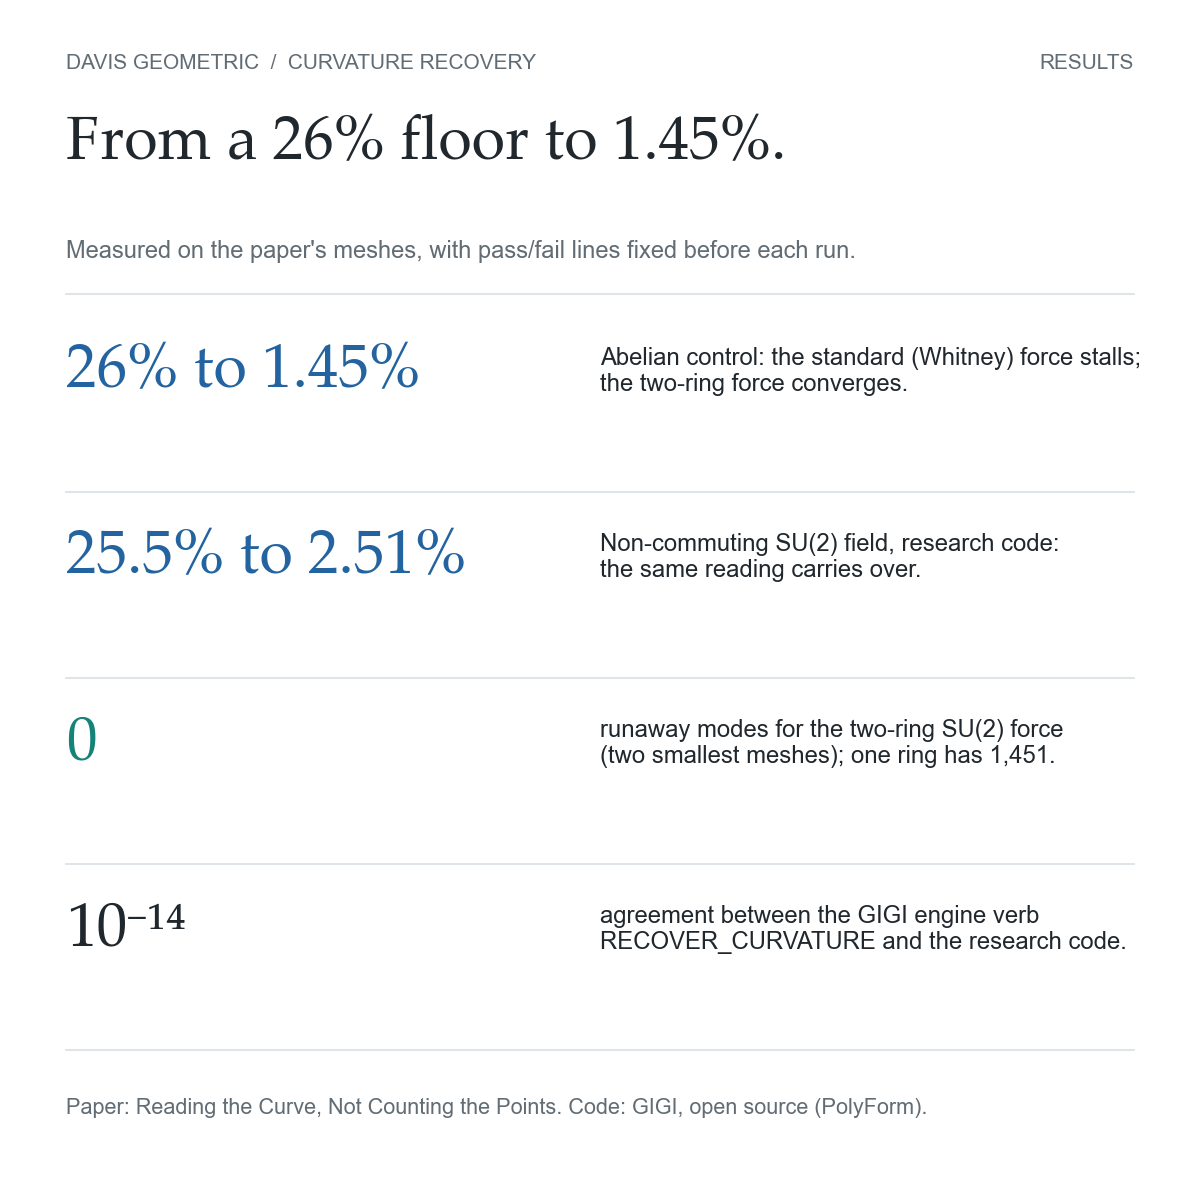
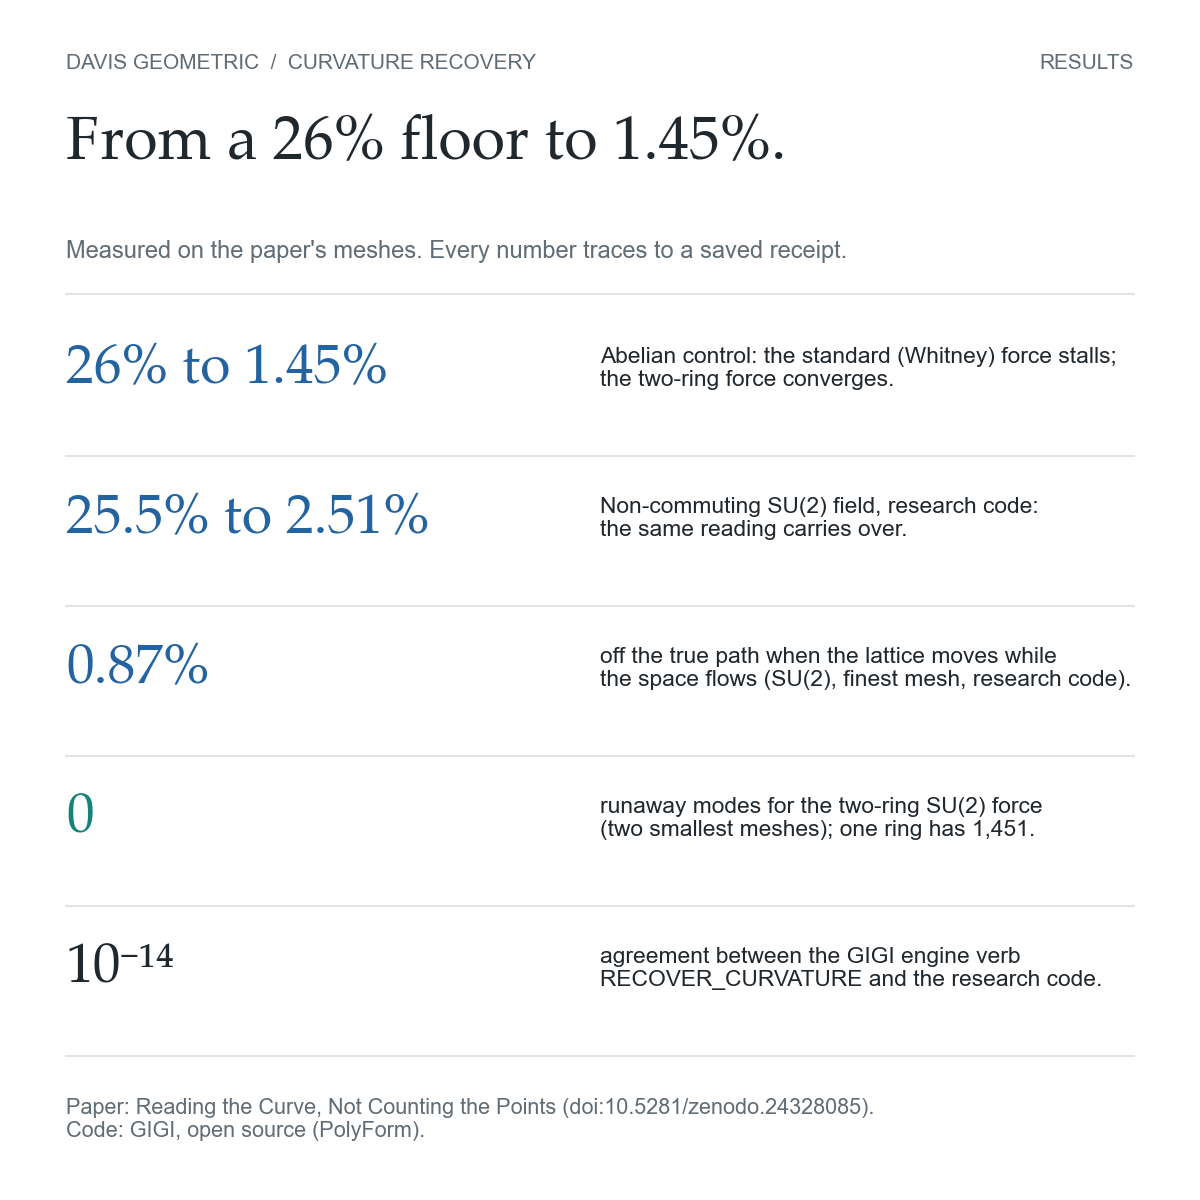
Social cards: the lattice in time, the new evidence, both DOIs
New card 06 (the space flows, the lattice follows: R at n = 1, 2, 3 with
the frozen control, and the 10.6% note). Results card adds 0.87% and drops
'pass/fail lines fixed before each run' for 'every number traces to a
saved receipt'. DOIs on the results and Three Ways cards. Post text
rewritten for version 2, with the honest notes and the review described
as review agents, not peer review.

diff --git a/docs/papers/two-ring-pg/social/make_linkedin_cards.py b/docs/papers/two-ring-pg/social/make_linkedin_cards.py
@@ -89,20 +89,53 @@ def card_results():
     fig = plt.figure(figsize=(6, 6))
     mast(fig, "RESULTS")
     headline(fig, .905, "From a 26% floor to 1.45%.")
-    M.text(fig, .055, .80, "Measured on the paper's meshes, with pass/fail lines fixed before each run.", 8.5, MUTED)
+    M.text(fig, .055, .80, "Measured on the paper's meshes. Every number traces to a saved receipt.", 8.5, MUTED)
     M.rule(fig, .755, .055, .945)
     rows = [("26% to 1.45%", "Abelian control: the standard (Whitney) force stalls;\nthe two-ring force converges.", BLUE),
             ("25.5% to 2.51%", "Non-commuting SU(2) field, research code:\nthe same reading carries over.", BLUE),
+            ("0.87%", "off the true path when the lattice moves while\nthe space flows (SU(2), finest mesh, research code).", BLUE),
             ("0", "runaway modes for the two-ring SU(2) force\n(two smallest meshes); one ring has 1,451.", TEAL),
             ("10⁻¹⁴", "agreement between the GIGI engine verb\nRECOVER_CURVATURE and the research code.", INK)]
     y = .715
     for num, cap, col in rows:
-        M.text(fig, .055, y, num, 22, color=col, fontfamily=SERIF)
-        M.text(fig, .50, y - .004, cap, 8.6, INK)
-        y -= .155
+        M.text(fig, .055, y, num, 20, color=col, fontfamily=SERIF)
+        M.text(fig, .50, y - .004, cap, 8.2, INK)
+        y -= .125
         M.rule(fig, y + .03, .055, .945)
-    M.text(fig, .055, .085, "Paper: Reading the Curve, Not Counting the Points. Code: GIGI, open source (PolyForm).", 7.8, MUTED)
+    M.text(fig, .055, .085, "Paper: Reading the Curve, Not Counting the Points (doi:10.5281/zenodo.24328085).\n"
+           "Code: GIGI, open source (PolyForm).", 7.8, MUTED)
     save(fig, "03_results.png")
+
+
+def card_time():
+    """The SU(2) flow in time: R at n = 1, 2, 3 for two rings, native and the frozen control."""
+    flow = json.loads((HERE.parent / "data" / "su2_flow.json").read_text())
+    fig = plt.figure(figsize=(6, 6))
+    mast(fig, "LETTING THE LATTICE MOVE")
+    headline(fig, .905, "The space flows. The lattice\nfollows it.")
+    M.text(fig, .055, .755, "The links move under the force while the metric underneath follows its Ricci flow;\n"
+           "at the end they are compared with where the true field went.", 8.2, MUTED)
+    ax = fig.add_axes([.12, .30, .50, .38])
+    n = np.array([1, 2, 3])
+    series = [("pg", "two rings", BLUE, "o", "-", 2.4), ("native", "standard", GREY, "s", "-", 1.4),
+              ("pg_fixed", "background frozen", COPPER, "v", (0, (4, 2)), 1.6)]
+    for key, lab, col, mk, ls, lw in series:
+        R = np.array([100 * flow[f"{key}_n{k}"]["R"][-1] for k in n])
+        ax.plot(n, R, color=col, marker=mk, ls=ls, lw=lw, ms=5, label=lab)
+    ax.set_yscale("log"); ax.set_xticks(n); ax.set_xticklabels(["n = 1", "n = 2", "n = 3"])
+    ax.set_yticks([1, 2, 5, 10, 20]); ax.set_yticklabels(["1%", "2%", "5%", "10%", "20%"]); ax.minorticks_off()
+    ax.set_ylim(.6, 22); ax.set_xlim(.8, 3.2)
+    for s_ in ("top", "right"):
+        ax.spines[s_].set_visible(False)
+    ax.tick_params(labelsize=7.5, colors=MUTED)
+    ax.legend(frameon=False, fontsize=7.5, loc="upper right")
+    big(fig, .68, .62, "0.87%", "two rings, finest mesh:\noff the true path", BLUE, size=26)
+    big(fig, .68, .43, "8%", "background frozen:\nstays stuck, as it should", COPPER, size=26)
+    M.rule(fig, .215, .055, .945)
+    M.text(fig, .055, .19, "13.8%, 1.76%, 0.87% at n = 1, 2, 3; the standard force 7.0%, 2.21%, 1.07%. Against only\n"
+           "the motion the moving space causes, the two-ring error is 10.6% at n = 3: falling, not solved.", 8, INK)
+    M.text(fig, .055, .085, "Research code, one metric, one short window. Paper: Reading the Curve, Section 9.3.", 7.8, MUTED)
+    save(fig, "06_letting_the_lattice_move.png")
 
 
 def card_three_ways():
@@ -139,7 +172,8 @@ def card_three_ways():
     M.rule(fig, .155, .055, .945)
     M.text(fig, .055, .14, "For small turns, the shortcut falls short of the true path by half what the detour overshoots.\n"
            "A lattice measures the chord; the continuum is made of arcs; the gap between them is curvature.", 8.2, INK)
-    M.text(fig, .055, .085, "Paper: Three Ways Across a Turn: Chord, Arc and Tangent. Every identity checked by script.", 7.8, MUTED)
+    M.text(fig, .055, .085, "Paper: Three Ways Across a Turn: Chord, Arc and Tangent (doi:10.5281/zenodo.24375338).\n"
+           "Every identity checked by script.", 7.8, MUTED)
     save(fig, "04_three_ways_across_a_turn.png")
 
 
@@ -155,4 +189,4 @@ def card_landscape():
 
 
 if __name__ == "__main__":
-    card_cover(); card_fold(); card_results(); card_three_ways(); card_landscape()
+    card_cover(); card_fold(); card_results(); card_three_ways(); card_landscape(); card_time()

diff --git a/docs/papers/two-ring-pg/social/LINKEDIN_POST.md b/docs/papers/two-ring-pg/social/LINKEDIN_POST.md
@@ -1,8 +1,8 @@
-# LinkedIn post (draft for Bee)
+# LinkedIn post (draft for Bee): version 2 of Reading the Curve
 
-Images, in this order: `cards/01_cover_one_vs_two_rings.png`, `cards/02_fold_keep_what_matters.png`,
-`cards/03_results.png`, `cards/04_three_ways_across_a_turn.png`. Use
-`cards/05_link_preview_1200x627.png` when sharing a link.
+Images, in this order: `cards/01_cover_one_vs_two_rings.png`, `cards/06_letting_the_lattice_move.png`,
+`cards/03_results.png`, `cards/02_fold_keep_what_matters.png`, `cards/04_three_ways_across_a_turn.png`.
+Use `cards/05_link_preview_1200x627.png` when sharing a link.
 
 ---
 
@@ -13,26 +13,40 @@ I think of it the way an archaeologist reads a broken vessel from a single rim s
 one ring of neighbours, a cell has exactly as many clues as unknowns, so it has to believe
 every one of them, noise included, and it amplifies that noise about 250 times. Give it a
 second ring and the noise is outvoted instead of obeyed. The error falls to 1.45%, the force
-is stable, and nothing is thrown away: every number the standard method had is kept, and
-only the curve between them is refined.
+is stable, and nothing is thrown away.
 
-Two things surprised me.
+The same reading carries to a non-commuting SU(2) field in my research code: 25.5% down to
+2.51%, with no runaway modes on the meshes I tested.
 
-You don't need the whole second ring. Two to four well-chosen cells out of about ten keep
-the force accurate and stable. Pick the same number at random and it blows up, with 48
-runaway modes. Keep the cells that change the answer.
+New in version 2: I let the lattice move. The space underneath flows (Ricci flow of the
+Berger metric), the links move under the force, and at the end I compare them with where the
+true field went. The two-ring force ends 13.8%, 1.76%, then 0.87% off the true path on three
+meshes. Freeze the background and the error stays stuck near 8%, which is what it should do
+if the test really feels the moving space.
 
-And the same reading carries to a non-commuting SU(2) field in our research code: 25.5%
-down to 2.51%, with no runaway modes on the meshes we tested.
+Two honest notes, because they matter more than the headline. Most of the field's motion
+happens even with the space frozen; against only the part the moving space causes, the
+two-ring error is 10.6% on the finest mesh. Still falling, not solved. And one of my own
+forecasts missed: I expected two rings to pull further ahead on the finest mesh. Both errors
+halved instead.
 
-The companion paper, *Three Ways Across a Turn*, is about the smallest piece of all: one turn,
-and the three ways to get across it (the chord, the arc and the detour). A lattice pays for
-the chord, the continuum is made of arcs, and the gap between them is curvature.
+Because so many people now assume everyone else is faking results, I had this work reviewed
+for exactly that. Nothing was found that makes the code flatter the result; the review did
+catch wording and three roundings that leaned my way, and they are fixed.
 
-Everything runs in GIGI, which is open source (PolyForm). If you don't agree, run the code.
+The companion paper, Three Ways Across a Turn, is now published: one turn, and the three ways
+across it (the chord, the arc and the detour). It supplied the time step the moving lattice
+needed at its finest level.
+
+Reading the Curve: https://doi.org/10.5281/zenodo.24328085
+Three Ways Across a Turn: https://doi.org/10.5281/zenodo.24375338
+
+Everything runs on GIGI, which is open source (PolyForm), and the code and data behind every
+number are in the record. If you don't agree, run the code.
 
 ---
 
 **Do not change without checking the receipts:** 26%, 1.45%, about 250× (cell 0: 253.5; the
-median is 125–252 by mesh), 2–4 of about 10, 48 runaway modes, 25.5% and 2.51%. "Research
-code" stays: the SU(2) results are not engine runs.
+median is 125–252 by mesh), 25.5% and 2.51%, 13.8% / 1.76% / 0.87%, about 8% (8.07% and 8.13%),
+10.6%. "Research code" stays: the SU(2) results are not engine runs. Do not call the review
+"independent" or "peer review": it was run by review agents in Bee's own workflow.

diff --git a/docs/papers/two-ring-pg/social/README.md b/docs/papers/two-ring-pg/social/README.md
@@ -1,9 +1,10 @@
 # Social cards
 
-Five cards in the paper's plate style, made with Astra's plate helpers and her
+Six cards in the paper's plate style, made with Astra's plate helpers and her
 depth-sorted transparency renderer (`../make_polished_plates.py`,
 `../transparent_tetra_renderer.py`). The 3-D scenes use the paper's saved geometry
-(`../data/rings_3d.json`).
+(`../data/rings_3d.json`); the flow card reads `../data/su2_flow.json`, which
+`../make_figures_su2flow.py` writes from the committed receipts.
 
 ```bash
 python docs/papers/two-ring-pg/social/make_linkedin_cards.py
@@ -13,8 +14,9 @@ python docs/papers/two-ring-pg/social/make_linkedin_cards.py
 | --- | --- | --- |
 | `01_cover_one_vs_two_rings.png` | 1200 × 1200 | 253.5 and 23.1: cell 0's fit amplification (`data/rings_3d.json`); 26% and 1.45%: paper, Section 7 |
 | `02_fold_keep_what_matters.png` | 1200 × 1200 | 2–4 of about 10, 48 runaway modes, 1.57% against 1.45%: `docs/RING_FOLD_RESULTS.md`, `docs/RING_FOLD_FORCE_RESULTS.md` |
-| `03_results.png` | 1200 × 1200 | 26% to 1.45% (paper §7); 25.5% to 2.51% (paper §9.1, research code); 0 and 1,451 runaway modes at n ≤ 2 (`docs/RICCI_SU2_PG_STABILITY_RESULTS.md`); 10⁻¹⁴ engine parity (`research/recover-curvature-parity-20261117/`) |
-| `04_three_ways_across_a_turn.png` | 1200 × 1200 | 57.30°, 60°, 90°: *Three Ways Across a Turn*, the ticket game (checked by its `verify.py`) |
+| `03_results.png` | 1200 × 1200 | 26% to 1.45% (paper §7); 25.5% to 2.51% (paper §9.2, research code); 0.87% (paper §9.3, Table 9; `research/su2-cayley-20261118/L2_pg_N8.json`); 0 and 1,451 runaway modes at n ≤ 2 (`docs/RICCI_SU2_PG_STABILITY_RESULTS.md`); 10⁻¹⁴ engine parity (`research/recover-curvature-parity-20261117/`) |
+| `04_three_ways_across_a_turn.png` | 1200 × 1200 | 57.30°, 60°, 90°: *Three Ways Across a Turn* (doi:10.5281/zenodo.24375338), the ticket game (checked by its `verify.py`) |
 | `05_link_preview_1200x627.png` | 1200 × 627 | 26% and 1.45%: paper §7 |
+| `06_letting_the_lattice_move.png` | 1200 × 1200 | R at n = 1, 2, 3 for two rings, standard and frozen background: `data/su2_flow.json` (receipts in `research/su2-flow-20261118/` and `research/su2-cayley-20261118/`); 10.6%: paper §9.3, `docs/RICCI_SU2_PG_FLOW_CAYLEY_RESULTS.md` |
 
 The post text is `LINKEDIN_POST.md`.
